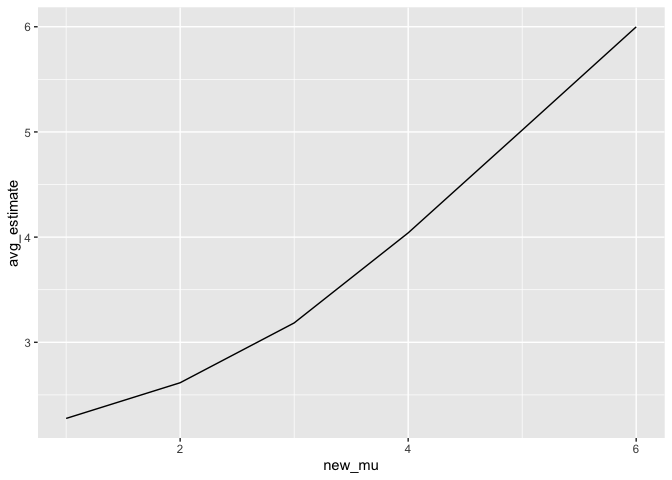
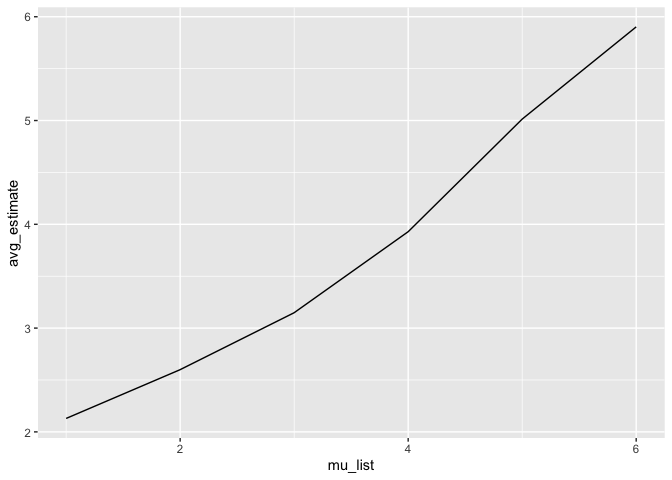
making edits to problem 2

diff --git a/p8105_hw5_co2616.md b/p8105_hw5_co2616.md
@@ -78,7 +78,7 @@ that at least two people share a birthday.
 ## Problem 2
 
 ``` r
-null_df = function(n = 30, mu = 0, sigma = 5) {
+null_df = function(n, mu = 0, sigma = 5) {
   
  sim_df =
   tibble(
@@ -109,22 +109,22 @@ sim_results_df
 ```
 
     ## # A tibble: 5,000 × 4
-    ##    sample_size  iter estimate p_val
-    ##          <dbl> <int>    <dbl> <dbl>
-    ##  1          30     1 -0.733   0.338
-    ##  2          30     2  0.136   0.893
-    ##  3          30     3  0.133   0.866
-    ##  4          30     4 -0.0955  0.919
-    ##  5          30     5  0.189   0.852
-    ##  6          30     6 -0.234   0.779
-    ##  7          30     7  0.519   0.612
-    ##  8          30     8  0.492   0.568
-    ##  9          30     9  0.00175 0.999
-    ## 10          30    10  0.0685  0.926
+    ##    sample_size  iter estimate  p_val
+    ##          <dbl> <int>    <dbl>  <dbl>
+    ##  1          30     1   -0.145 0.869 
+    ##  2          30     2    0.654 0.440 
+    ##  3          30     3    0.216 0.810 
+    ##  4          30     4    0.309 0.620 
+    ##  5          30     5    1.31  0.163 
+    ##  6          30     6   -1.32  0.0628
+    ##  7          30     7    0.497 0.625 
+    ##  8          30     8    0.613 0.507 
+    ##  9          30     9    0.958 0.275 
+    ## 10          30    10    0.729 0.498 
     ## # ℹ 4,990 more rows
 
 ``` r
-new_null_df = function(n = 30, mu = 0, sigma = 5) {
+new_null_df = function(n, mu, sigma = 5) {
   
  new_sim_df =
   tibble(
@@ -146,39 +146,39 @@ new_null_df = function(n = 30, mu = 0, sigma = 5) {
 new_sim_results_df = 
   expand_grid(
     sample_size = 30,
-    new_mu = c(1,2,3,4,5,6),
-    iter = 1:5000
+    mu_list = c(1,2,3,4,5,6),
+    iter = 1:50
   ) |> 
   mutate(
-    new_estimate_df = map2(sample_size, new_mu, new_null_df)
+    new_estimate_df = map2(sample_size, mu_list, new_null_df)
   ) |> 
   unnest(new_estimate_df)
 
 new_sim_results_df
 ```
 
-    ## # A tibble: 30,000 × 5
-    ##    sample_size new_mu  iter new_estimate new_p_val
-    ##          <dbl>  <dbl> <int>        <dbl>     <dbl>
-    ##  1          30      1     1       1.16    0.258   
-    ##  2          30      1     2       3.28    0.000426
-    ##  3          30      1     3       2.71    0.00691 
-    ##  4          30      1     4       1.11    0.219   
-    ##  5          30      1     5       2.29    0.00254 
-    ##  6          30      1     6       1.78    0.0390  
-    ##  7          30      1     7       0.231   0.810   
-    ##  8          30      1     8       0.0241  0.976   
-    ##  9          30      1     9       1.36    0.191   
-    ## 10          30      1    10       0.401   0.628   
-    ## # ℹ 29,990 more rows
+    ## # A tibble: 300 × 5
+    ##    sample_size mu_list  iter new_estimate new_p_val
+    ##          <dbl>   <dbl> <int>        <dbl>     <dbl>
+    ##  1          30       1     1        0.273    0.756 
+    ##  2          30       1     2        0.450    0.660 
+    ##  3          30       1     3        0.342    0.736 
+    ##  4          30       1     4        1.40     0.0918
+    ##  5          30       1     5       -0.588    0.450 
+    ##  6          30       1     6        0.505    0.589 
+    ##  7          30       1     7        1.43     0.123 
+    ##  8          30       1     8       -0.311    0.761 
+    ##  9          30       1     9        0.559    0.569 
+    ## 10          30       1    10        0.772    0.334 
+    ## # ℹ 290 more rows
 
 ``` r
 new_sim_results_df %>%
-  group_by(new_mu) %>%
+  group_by(mu_list) %>%
   summarize(
     power = mean(new_p_val < 0.05)
   ) %>% 
-  ggplot(aes(x = new_mu, y = power)) +
+  ggplot(aes(x = mu_list, y = power)) +
   geom_line()
 ```
 
@@ -189,16 +189,19 @@ As effect size increases, the power increases and when the true mean is
 
 ``` r
 new_sim_results_df %>%
-  group_by(new_mu) %>%
+  group_by(mu_list) %>%
   filter(new_p_val < 0.05) %>% 
   summarize(
     avg_estimate = mean(new_estimate)
   ) %>% 
-  ggplot(aes(x = new_mu, y = avg_estimate)) +
+  ggplot(aes(x = mu_list, y = avg_estimate)) +
   geom_line()
 ```
 
 ![](p8105_hw5_co2616_files/figure-gfm/unnamed-chunk-10-1.png)<!-- -->
 
-Yes, the sample average of 𝜇̂ across tests for which the null is rejected
-approximately equal to the true value of 𝜇 because
+Yes, as the effect size increase, the sample average of 𝜇̂ across tests
+for which the null is rejected approximately equal to the true value of
+𝜇 because power increases.
+
+## Problem 3
